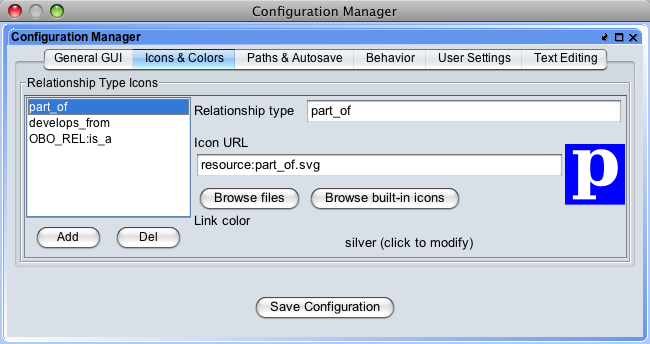
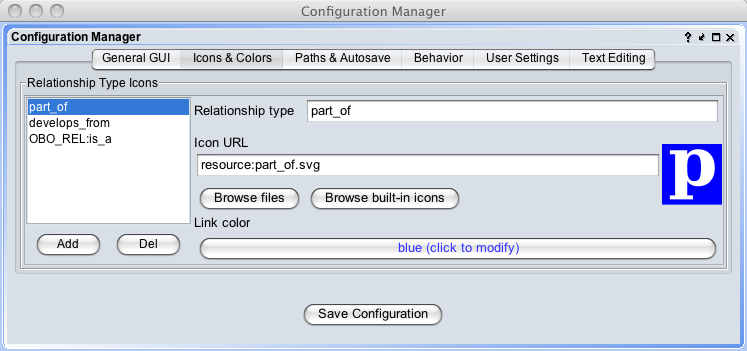
Updated screenshot and text about changing link color in config manager.
git-svn-id: svn://svn.code.sf.net/p/geneontology/svn/java/oboedit/trunk@472 6f0e8829-b336-0410-acfb-cb9b228023ad

diff --git a/docs/html/Configuration_Manager.htm b/docs/html/Configuration_Manager.htm
@@ -57,14 +57,13 @@ relationship type from the list. The icon association editor will appear:</p>
 <p>To pick an image file from the local disk, press the "Browse 
 files" button. To use one of OBO-Edit's built-in icons, press the "Browse 
 built-in icons" button.  The "Icon URL" box will get filled in automatically.</p>
-<p>Note that when you choose a new icon for a relationship type, the OBO-Edit
-display will not automatically refresh.  You will see the new icon when you do
-something that changes the display (e.g., click open a node).</p>
 <p>To delete a relationship type icon association, left-click the association 
 and press the "Del" button.</p>
 <p>To add a new relationship type icon association, press the "Add" button. A 
 new association will be created with the temporary id "UNKNOWN" and the icon path "&lt;new 
 icon path&gt;".</p>
+<p>To change the link color for a relationship, click the button below "Link
+color" that says the color name (e.g., "blue (click to modify)").
 
 <div class="sidebar">
 <h1>Why won't my is_a icon appear?</h1>
